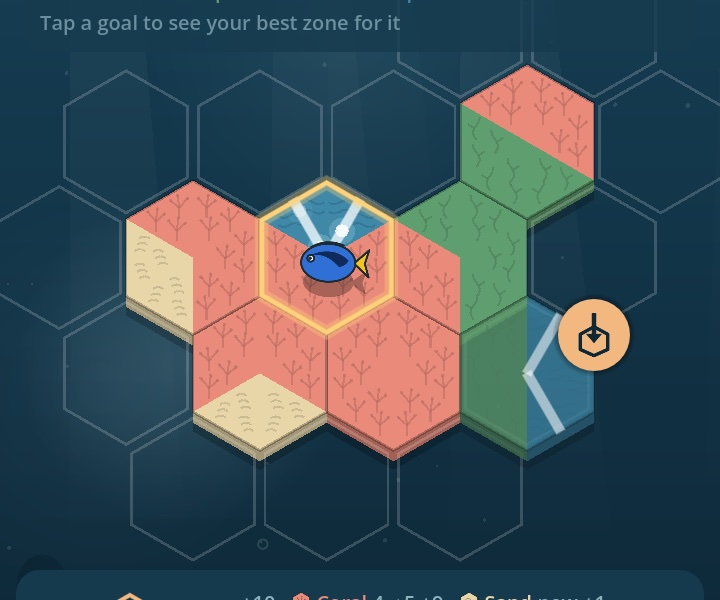
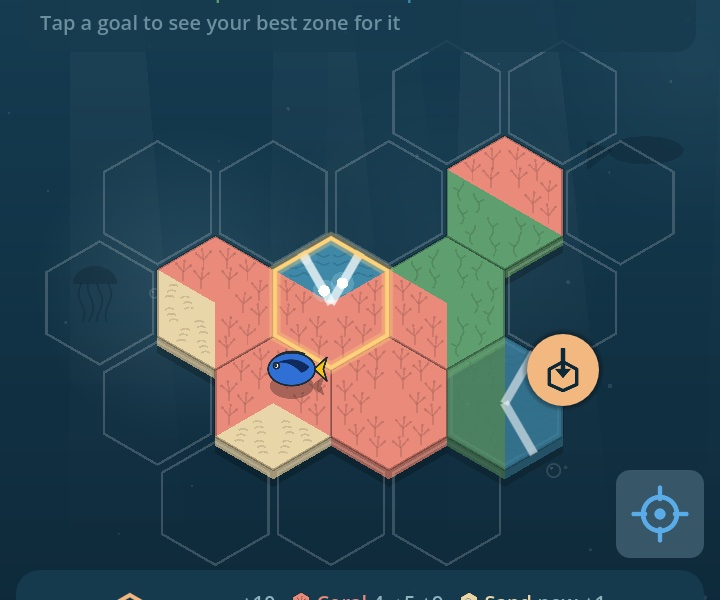
How to play: tutorial replay, pan/zoom/recenter, Menu & settings step; fresh images. Home: real zone names

diff --git a/how-to-play.html b/how-to-play.html
@@ -17,13 +17,15 @@
     <li>Build a reef with the level's hexas, one at a time</li>
     <li>Grow zones of the same colour to score points</li>
     <li>Meet the goals for ★ stars and reach the points target for the ● pearl</li>
-    <li>Attract fish to fill your collection</li></ul></div></div>
+    <li>Attract fish to fill your collection</li>
+    <li>New to it? The Low tide chapter replays the 4-lesson tutorial</li></ul></div></div>
 
   <div class="card step"><img src="img/howto-1.jpg" alt=""><div><h2>Build a reef</h2><ul>
     <li>Pick one of the 3 hexas in hand</li>
     <li>Its place refills from the hidden pile</li>
     <li>Place it on any empty spot next to your reef</li>
-    <li>Tap "hexas left" to see every hexa still to come</li></ul></div></div>
+    <li>Tap "hexas left" to see every hexa still to come</li>
+    <li>Drag to look around, pinch to zoom, the target button brings the whole reef back</li></ul></div></div>
 
   <div class="card step"><img src="img/howto-2.jpg" alt=""><div><h2>Rotate &amp; place</h2><ul>
     <li>Tap the hexa on the board to turn it</li>
@@ -58,6 +60,11 @@
     <li>15 ★ stars in a chapter open the next one</li>
     <li>Every 10th level (red frame) is hard: bigger zone goals, more points for the pearl</li>
     <li>Each chapter adds a twist, explained on its page</li></ul></div></div>
+  <div class="card step"><img src="img/howto-9.jpg" alt=""><div><h2>Menu &amp; settings</h2><ul>
+    <li>☰ in a reef: upcoming hexas, colour legend, How to play, Settings</li>
+    <li>Settings: music, sounds, haptics, language</li>
+    <li>Colour-blind friendly colours: clearer zones and bolder patterns</li>
+    <li>Reduce motion: the reef holds still</li></ul></div></div>
 </main>
 <footer>© 2026 Hexacoral</footer>
 </body>

diff --git a/index.html b/index.html
@@ -13,7 +13,7 @@
 <nav><a href="./">Home</a><a href="how-to-play.html">How to play</a><a href="privacy.html">Privacy</a><a href="https://buymeacoffee.com/sebastiensyd">Support</a></nav>
 <main>
   <h1>Grow a coral reef, one hexa at a time</h1>
-  <p class="lead">Hexacoral is a calm puzzle game for Android. Place hexagonal tiles, match their edges to grow coral, kelp, sand and rock zones, and watch fish move in when their homes are ready.</p>
+  <p class="lead">Hexacoral is a calm puzzle game for Android. Place hexagonal tiles, match their edges to grow coral, kelp, sand, seagrass and open water zones, and watch fish move in when their homes are ready.</p>
 
   <div class="card">
     <h2>What's inside</h2>
